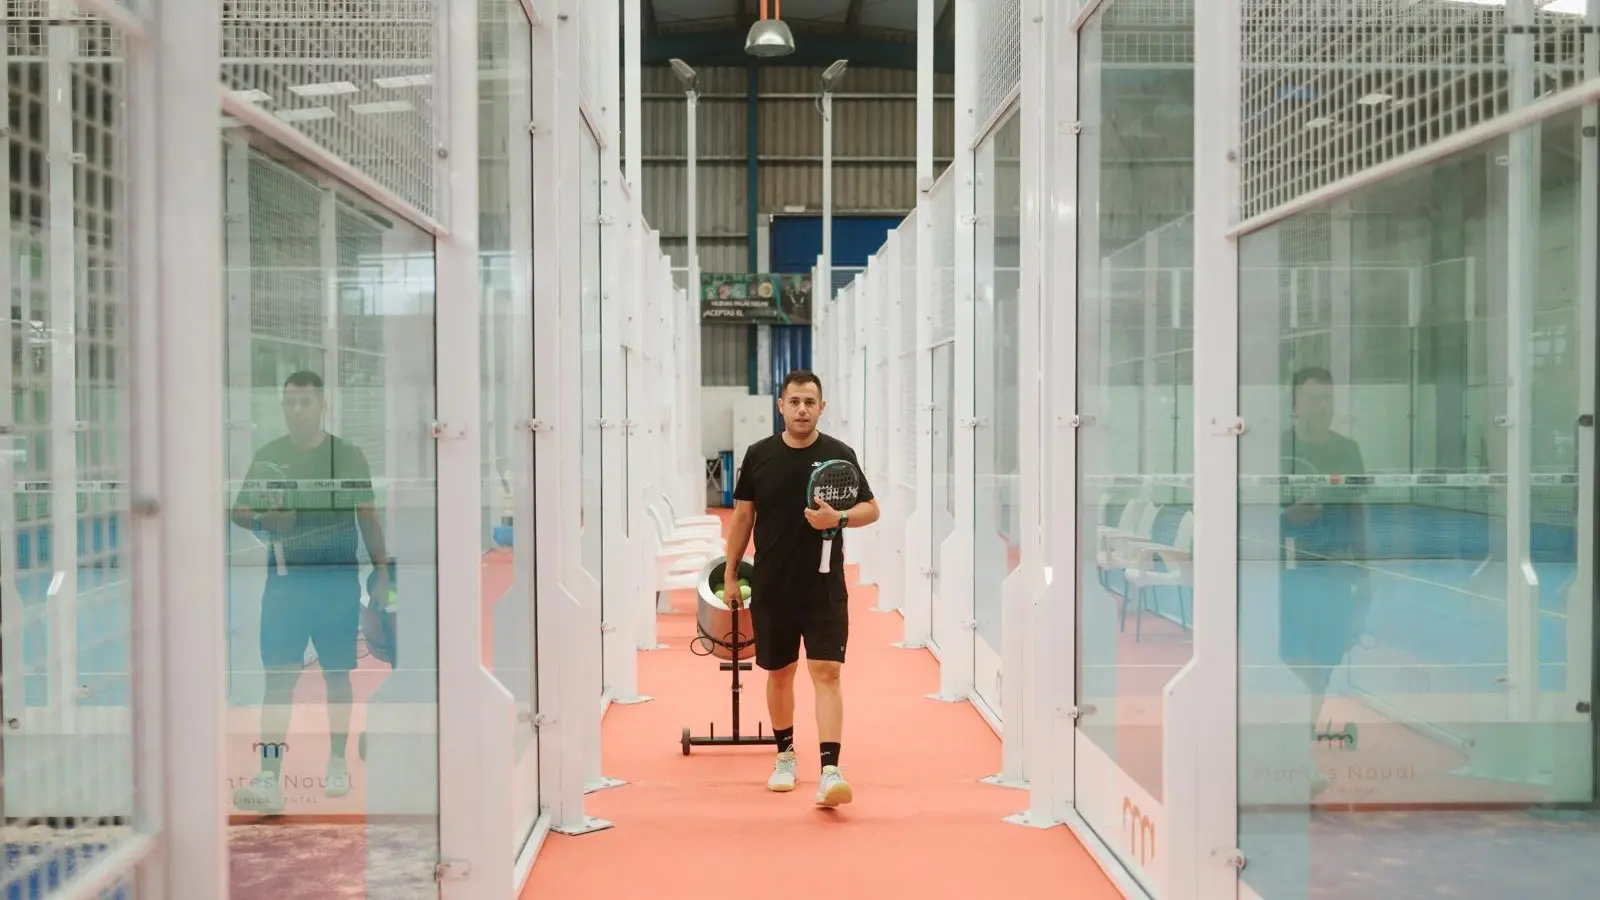
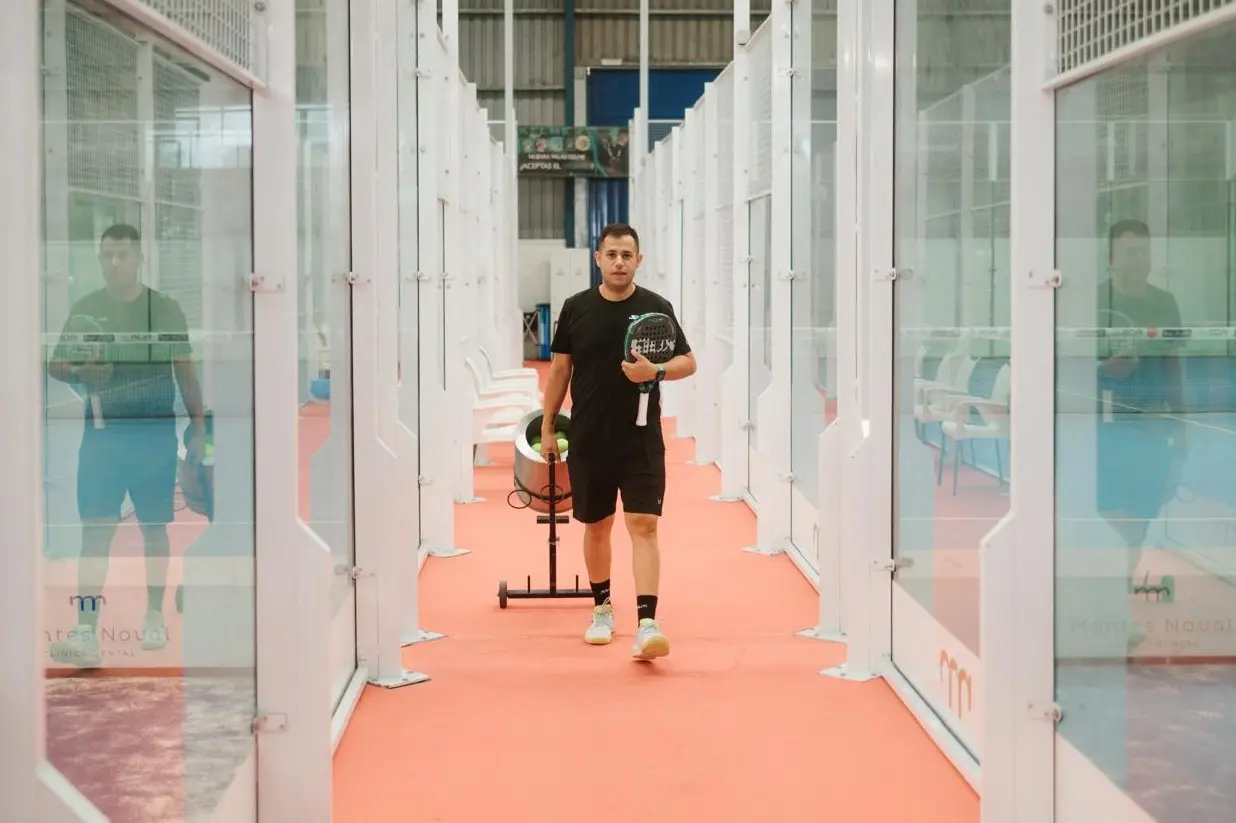
correcting the header and images

diff --git a/src/assets/styles/layouts/mobileHeader.module.css b/src/assets/styles/layouts/mobileHeader.module.css
@@ -1,10 +1,10 @@
 .navigation {
-  height: 13rem;
+  height: var(--nav-height);
   position: relative;
   display: flex;
   align-items: center;
   justify-content: space-between;
-  padding: 0 3rem;
+  padding: 4rem 2rem 2rem 2rem;
   background-color: var(--dark-color);
 }
 
@@ -20,6 +20,7 @@
   display: flex;
   align-items: center;
   justify-content: center;
+  margin-right: -2rem;
 }
 
 .icon {
@@ -75,6 +76,7 @@
 /* NAV LIST */
 
 .background {
+  min-height: 50rem;
   position: absolute;
   top: 100%;
   left: 0;
@@ -91,7 +93,7 @@
 }
 
 .visible {
-  height: calc(100vh - 13rem);
+  height: calc(100vh - var(--nav-height));
   opacity: 1;
   pointer-events: auto;
 }
@@ -138,7 +140,10 @@
 /* MAIN */
 
 .mainBox {
-  padding: 0 3rem;
+  padding: 0 2rem 4rem 2rem;
+  display: flex;
+  flex-direction: column;
+  gap: 1rem;
 }
 
 .heading {
@@ -195,6 +200,10 @@
   height: 15rem;
   border-radius: 2rem;
   overflow: hidden;
+}
+
+.raquetaImage img {
+  object-position: top;
 }
 .coachImage {
   display: block;

diff --git a/src/assets/styles/index.css b/src/assets/styles/index.css
@@ -7,6 +7,8 @@
   --font-primary: "Anton", sans-serif;
   --font-secondary: "Zen Dots", sans-serif;
   --font-paragraph: "Montserrat", sans-serif;
+
+  --nav-height: 10rem;
 }
 
 *,
@@ -33,7 +35,7 @@ header {
 
 img {
   width: 100%;
-  height: auto;
+  height: 100%;
   object-fit: cover;
   display: block;
 }
